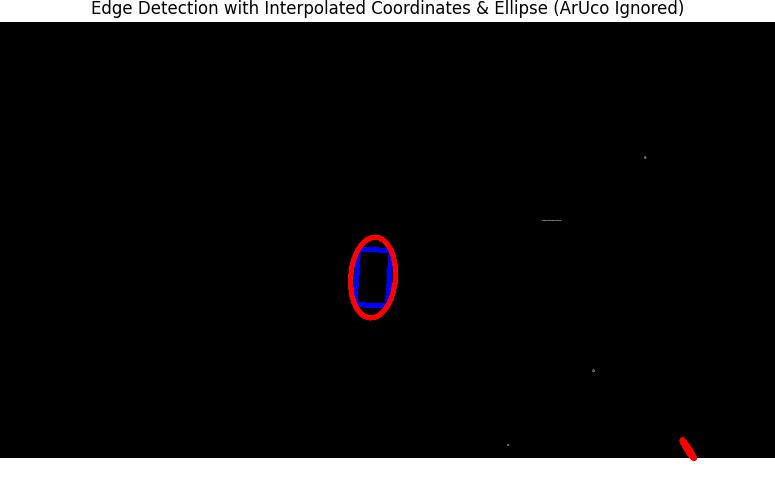
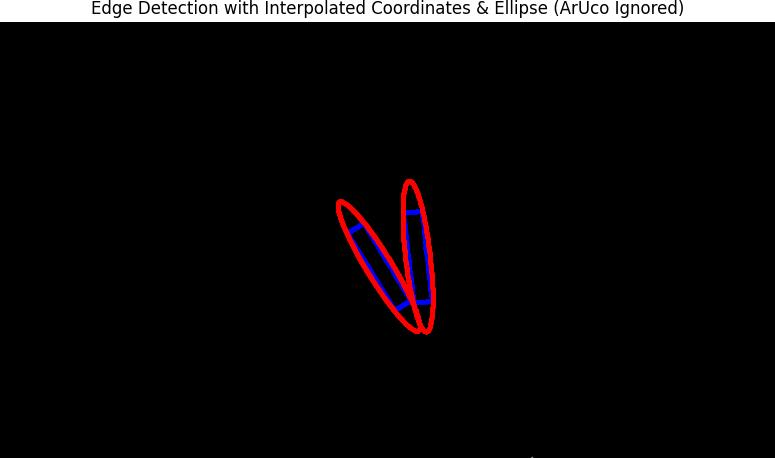
Validating Adaptive Lookahead performance & Write report (photos, understanding APF gradient stuff)

Changed region(s): [[0.0, 0.917, 1.0, 1.0], [0.4335, 0.3974, 0.5884, 0.7336], [0.1239, 0.0, 0.8671, 0.0611]]

diff --git a/2nd_CapPrj/main.py b/2nd_CapPrj/main.py
@@ -13,7 +13,7 @@ from FUNC_calculate_signed_AH_and_projection import calculate_signed_AH_and_proj
 from FUNC_draw_buttons import draw_buttons
 
 # Control client flag
-flag_client_control = False
+flag_client_control = True
 
 # Shared variables
 clicked_points = []
@@ -34,6 +34,9 @@ omega = 0
 w1 = 0
 w2 = 0
 closest_point_save = ()
+
+aruco_path = []
+
 # Setup camera and window
 cap = openCV.initialize_camera()
 openCV.initialize_window(
@@ -49,7 +52,7 @@ parameters = cv2.aruco.DetectorParameters()
 # PID Parameters
 kp = 13
 ki = 4
-kd = 0.1
+kd = 0.0001
 if flag_client_control:
     send_PID(kp, ki, kd)
     ena_PID(0) # Disable PID on motors initially
@@ -69,17 +72,30 @@ while True:
     if corners:
         center_coordinate, end_point_arrow, angle = openCV.calculate_center_and_orientation(corners, frame_height) 
         # Test filter ArUco
-        if angle_save is not None and corners_save is not None:
-            if angle < 0:
-                if abs(angle + 360 - angle_save) > max_angle_different:
-                    center_coordinate, end_point_arrow, angle = openCV.calculate_center_and_orientation(corners_save, frame_height)
-            elif angle >= 0:
-                if abs(angle - angle_save) > max_angle_different:
-                    center_coordinate, end_point_arrow, angle = openCV.calculate_center_and_orientation(corners_save, frame_height)
-        else:
-            corners_save = corners
-            angle_save = angle
+        # if angle_save is not None and corners_save is not None:
+        #     if angle < 0:
+        #         if abs(angle + 360 - angle_save) > max_angle_different:
+        #             center_coordinate, end_point_arrow, angle = openCV.calculate_center_and_orientation(corners_save, frame_height)
+        #     elif angle >= 0:
+        #         if abs(angle - angle_save) > max_angle_different:
+        #             center_coordinate, end_point_arrow, angle = openCV.calculate_center_and_orientation(corners_save, frame_height)
+        # else:
+        #     corners_save = corners
+        #     angle_save = angle
         openCV.draw_center_and_orientation_display(frame, center_coordinate, angle, end_point_arrow, Adaptive_lookahead_pixels, frame_width, frame_height)
+        if flag_end_waypoint == False:
+            aruco_path = openCV.aruco_path_plot(frame, center_coordinate, flag_end_waypoint, aruco_path)
+        elif flag_end_waypoint == True:
+            aruco_path = np.array(aruco_path, dtype=np.float64).reshape(-1, 2)
+        
+            # Interpolate waypoints
+            aruco_path = interpolate_waypoints(aruco_path, step_distance=1.0)
+            
+            # Draw the path on the frame
+            for point in aruco_path:
+                aruco_x_path, aruco_y_path = int(point[0]), int(frame_height - point[1]) # Convert to integers
+                cv2.circle(frame, (aruco_x_path, aruco_y_path), 2, (0, 255, 0), -1)  # Green color
+    
 
     # Draw clicked points
     if clicked_points:
@@ -146,6 +162,7 @@ while True:
             ena_PID(0)
         w1 = 0
         w2 = 0
+        aruco_path = []
     # Approaches the final point, stop the robot
     if flag_end_waypoint:
         if flag_client_control:

diff --git a/1st_Test/aruco_obstacle_detection.py b/1st_Test/aruco_obstacle_detection.py
@@ -6,7 +6,6 @@ import numpy as np
 import cv2.aruco as aruco
 import matplotlib.pyplot as plt
 import utils
-from scipy.ndimage import gaussian_filter1d
 from utils import frame_height, frame_width
 
 ###############################################################################
@@ -19,12 +18,12 @@ output_filename = "1_Processed_image.jpg"
 ###############################################################################
 def initialize_camera():
     """ Initializes and returns the camera object """
-    cap = cv2.VideoCapture(0)
+    cap = cv2.VideoCapture(1)
     cap.set(cv2.CAP_PROP_FRAME_WIDTH, frame_width)
     cap.set(cv2.CAP_PROP_FRAME_HEIGHT, frame_height)
-    cap.set(cv2.CAP_PROP_AUTO_EXPOSURE, 0)  
-    cap.set(cv2.CAP_PROP_EXPOSURE, -4) 
-    cap.set(cv2.CAP_PROP_BRIGHTNESS, 0) 
+    # cap.set(cv2.CAP_PROP_AUTO_EXPOSURE, 0)  
+    # cap.set(cv2.CAP_PROP_EXPOSURE, -4) 
+    # cap.set(cv2.CAP_PROP_BRIGHTNESS, 0) 
     return cap
 
 def release_camera(cap):
@@ -214,29 +213,6 @@ def detect_aruco_and_obstacles(frame, gray):
 def detect_aruco_markers_pure_pursuit(gray, aruco_dict, parameters):
     corners, ids, rejected = cv2.aruco.detectMarkers(gray, aruco_dict, parameters=parameters)
     return corners, ids
-
-def draw_aruco_path(frame, aruco_path, color=(0, 255, 0), thickness=2):
-    """
-    Draws a green path on the given frame by connecting a sequence of ArUco coordinates.
-
-    Parameters:
-      frame (numpy.ndarray): The current image/frame.
-      aruco_path (list of tuples): A list of (x, y) coordinates of the ArUco over time.
-      color (tuple): BGR color of the line (default is green).
-      thickness (int): Thickness of the drawn line (default is 2).
-
-    Returns:
-      numpy.ndarray: The frame with the drawn path.
-    """
-    # Check if there are at least 2 points to form a line
-    if len(aruco_path) < 2:
-        return frame
-
-    # Draw line segments connecting consecutive points
-    for i in range(len(aruco_path) - 1):
-        pt1 = (int(aruco_path[i][0]), int(aruco_path[i][1]))
-        pt2 = (int(aruco_path[i+1][0]), int(aruco_path[i+1][1]))
-        cv2.line(frame, pt1, pt2, color, thickness)
 
 def draw_center_and_orientation_display(frame, center_coordinate, angle, end_point_arrow, Adaptive_lookahead_pixels, frame_width, frame_height):
     """

diff --git a/1st_Test/utils.py b/1st_Test/utils.py
@@ -22,11 +22,11 @@ wheel_scale   = 0.01075 # R / 2 = 0.0215 / 2 = 0.01075
 max_angle_different = 70 # Maximum angle difference in degrees for filtering ArUco angles
 
 # Adaptive Look-ahead parameters 
-real_ld_scale = 0.00115625                             # Ratio between m and px
-k1            = 150 / ConstVelocity                    # Gain for the linear velocity (v)
-k2            = - 1220 / (2 * ConstVelocity / 0.0215)  # Gain for the angular velocity (w) --- (2 * ConstVelocity / 0.0215) = w --- currently minus 50 pixels of ld when omega = max = 0.4
-max_ld        = 150                                    # Maximum look-ahead distance (pixels)
-min_ld        = 75                                     # Minimum look-ahead distance (pixels)
+real_ld_scale = 0.00123292                             # Ratio between m and px
+k1            = 120 / ConstVelocity                    # Gain for the linear velocity (v)
+k2            = - 500 / (2 * ConstVelocity / 0.0215)   # Gain for the angular velocity (w) --- (2 * ConstVelocity / 0.0215) = w --- currently minus 50 pixels of ld when omega = max = 0.4
+max_ld        = 120                                    # Maximum look-ahead distance (pixels)
+min_ld        = 80                                     # Minimum look-ahead distance (pixels)
 
 ###############################################################################
 # PID PARAMETERS

diff --git a/Draft/Test_cam.py b/Draft/Test_cam.py
@@ -1,0 +1,36 @@
+import cv2
+import numpy as np
+
+def process_frame(cap, gamma=500):
+    """Captures and processes a frame from the camera with reduced exposure"""
+    ret, frame = cap.read()
+    if not ret:
+        return None, None
+    
+    # Apply gamma correction to reduce exposure (values > 1 darken the image)
+    inv_gamma = 1.0 / gamma
+    lookup_table = np.array([((i / 255.0) ** inv_gamma) * 255 
+                           for i in np.arange(0, 256)]).astype("uint8")
+    adjusted_frame = cv2.LUT(frame, lookup_table)
+    
+    # Convert to grayscale after exposure adjustment
+    gray = cv2.cvtColor(adjusted_frame, cv2.COLOR_BGR2GRAY)
+    
+    return adjusted_frame, gray
+
+cap = cv2.VideoCapture(0)
+
+while True:
+    frame, gray = process_frame(cap, gamma=1.8)  # Higher gamma = darker
+    
+    if frame is None:
+        break
+        
+    cv2.imshow('Adjusted Color', frame)
+    cv2.imshow('Adjusted Grayscale', gray)
+    
+    if cv2.waitKey(1) & 0xFF == ord('q'):
+        break
+
+cap.release()
+cv2.destroyAllWindows()

diff --git a/1st_Test/Basic_APF.py b/1st_Test/Basic_APF.py
@@ -35,7 +35,7 @@ def repulsive_potential(q, obstacles, k_rep, d0):
         if d <= d0:
             U_rep += 0.5 * k_rep * (1/d - 1/d0) ** 2
 
-            # Compute repulsive gradient (force)
+            # Compute repulsive gradient (force) [grad_rep = U_rep d/dx (derivative)]
             grad_rep = k_rep * (1/d - 1/d0) * (1/d**2) * (q - obs) / d  
 
             # Add a small tangential force (perpendicular to gradient)
@@ -114,7 +114,7 @@ def basic_apf(q, goal, obstacles, k_att, k_rep, d0, epsilon, step_size):
 ###############################################################################
 # APF PATH PLANNING
 ###############################################################################
-def apf_path_planning(start, goal, obstacles, k_att=0.00010, k_rep=130000.0, d0=100.0, max_iters=1000):
+def apf_path_planning(start, goal, obstacles, k_att=0.00010, k_rep=130000.0, d0=90.0, max_iters=1000):
     global epsilon, step_size, step_size_reach_end
     path = [start]
     q = np.array(start, dtype=np.float64).flatten()

diff --git a/2nd_CapPrj/pure_pursuit.py b/2nd_CapPrj/pure_pursuit.py
@@ -1,8 +1,12 @@
 import math
 from utils import ConstVelocity
 
-k1 = 80 / ConstVelocity # depend on v_robot
-k2 = - 60 / (2*ConstVelocity / 0.0215) # 10 = 45 / 4.5 (depend on 2*omega=w1 + w2)
+k1 = 100 / ConstVelocity # depend on v_robot
+k2 = - 500 / (2*ConstVelocity / 0.0215) # 10 = 45 / 4.5 (depend on 2*omega=w1 + w2)
+
+# k1 = 120 / ConstVelocity                    # Gain for the linear velocity (v)
+# k2 = - 600 / (2 * ConstVelocity / 0.0215)
+
 min_ld = 45 
 wheel_scale = 0.01075 # R / 2 = 0.0215 / 2 = 0.01075
 
@@ -31,12 +35,12 @@ def calculate_wheel_velocities(omega, R, Ld):
         w2 = 0
 
     # Limit wheel velocities
-    if w1 > 20:
+    if w1 > 10:
         w1 = 10
-    if w2 > 20:
+    if w2 > 10:
         w2 = 10
 
-    print(f"Wheel 1: {w1}, Wheel 2: {w2}")
+    # print(f"Wheel 1: {w1}, Wheel 2: {w2}")
     return w1, w2
 
 def velocities_to_RPM(v1, v2):

diff --git a/2nd_CapPrj/openCV.py b/2nd_CapPrj/openCV.py
@@ -1,9 +1,11 @@
 import cv2
 import numpy as np
+from FUNC_interpolate_waypoints import interpolate_waypoints
+from utils import frame_height
 
 # Initialize OpenCV components and shared variables
 def initialize_camera():
-    cap = cv2.VideoCapture(0)
+    cap = cv2.VideoCapture(1)
     cap.set(cv2.CAP_PROP_FRAME_WIDTH, 1920)
     cap.set(cv2.CAP_PROP_FRAME_HEIGHT, 1080)
     return cap
@@ -151,9 +153,12 @@ def draw_center_and_orientation_display(frame, center_coordinate, angle, end_poi
     cv2.putText(frame, text_lookahead, (top_right_x, top_right_y + 2 * line_spacing), 
                 cv2.FONT_HERSHEY_SIMPLEX, 0.5, (255, 255, 255), 2)
 
+def aruco_path_plot(frame, center_coordinate, flag_end_waypoint, aruco_path_store):
+    global frame_height
 
-
-
+    aruco_path_store.append(center_coordinate)
+        
+    return aruco_path_store
 
 
 

diff --git a/2nd_CapPrj/FUNC_interpolate_waypoints.py b/2nd_CapPrj/FUNC_interpolate_waypoints.py
@@ -7,12 +7,13 @@ def interpolate_waypoints(waypoints, step_distance=1.0):
     for i in range(len(waypoints) - 1):
         start = np.array(waypoints[i])
         end = np.array(waypoints[i + 1])
-        distance = np.linalg.norm(end - start)
+        distance = np.linalg.norm(end - start) + 1e-6  # Avoid division by zero
         direction = (end - start) / distance
         num_steps = int(distance // step_distance) + 1
 
         for step in range(num_steps):
             interpolated_point = start + step * step_distance * direction
+            print(f"Interpolated Point: {interpolated_point[0]}, {interpolated_point[1]}")
             rounded_point = (int(round(interpolated_point[0])), int(round(interpolated_point[1])))
 
             if rounded_point != previous_point:

diff --git a/1st_Test/pure_pursuit.py b/1st_Test/pure_pursuit.py
@@ -127,7 +127,7 @@ def calculate_adaptive_lookahead(w1, w2, omega):
     # Robot velocity related to 2 wheels velocity
     v_robot = wheel_scale * (w1 + w2)
 
-    print(f"omega: {omega}, v_robot: {v_robot}")
+    # print(f"omega: {omega}, v_robot: {v_robot}")
 
     # Tuned lookahead distance
     if omega < 0: # Negative omega --> turn right
@@ -141,7 +141,8 @@ def calculate_adaptive_lookahead(w1, w2, omega):
     if ld > max_ld:
         ld = max_ld
         
-    return ld
+    # return ld
+    return 70
 
 ###############################################################################
 # PURE PURSUIT MAIN EXECUTION

diff --git a/1st_Test/main.py b/1st_Test/main.py
@@ -28,7 +28,7 @@ global_path_plot = None      # Global path for plotting (hold on)
 interp_points_ellipse = []   # Global ellipse points
 global_ellipse_plot = None   # Global ellipse for plotting (hold on)
 aruco_path = []              # Global ArUco path
-deviation_threshold = 40     # minimum deviation (perpendicular distance) required to create a temporary goal
+deviation_threshold = 1      # minimum deviation (perpendicular distance) required to create a temporary goal
 angle_save = None            # Angle of the detected ArUco marker
 corners_save = None          # Detected corners of the ArUco marker
 

diff --git a/2nd_CapPrj/utils.py b/2nd_CapPrj/utils.py
@@ -9,7 +9,7 @@ button_width = 80
 button_height = 30
 
 # Parameters for Pure Pursuit
-ConstVelocity = 0.055  # Constant velocity in m/s
+ConstVelocity = 0.07  # Constant velocity in m/s
 LookAHead_dist = 45   # Look-ahead distance in pixels
-LookAHead_dist_RealLife = LookAHead_dist * 0.00102 # Look-ahead distance in meters
+LookAHead_dist_RealLife = LookAHead_dist * 0.00123292 # Look-ahead distance in meters
 Wheels_dist = 0.05    # Distance between wheels in meters

diff --git a/1st_Test/client_control.py b/1st_Test/client_control.py
@@ -6,7 +6,7 @@ import requests
 ###############################################################################
 # ESP32 SERVER IP ADDRESS
 ###############################################################################
-esp32_ip = "http://192.168.1.12"
+esp32_ip = "http://192.168.1.11"
 
 ###############################################################################
 # ROBOT VELOCITY & PID QUERY
